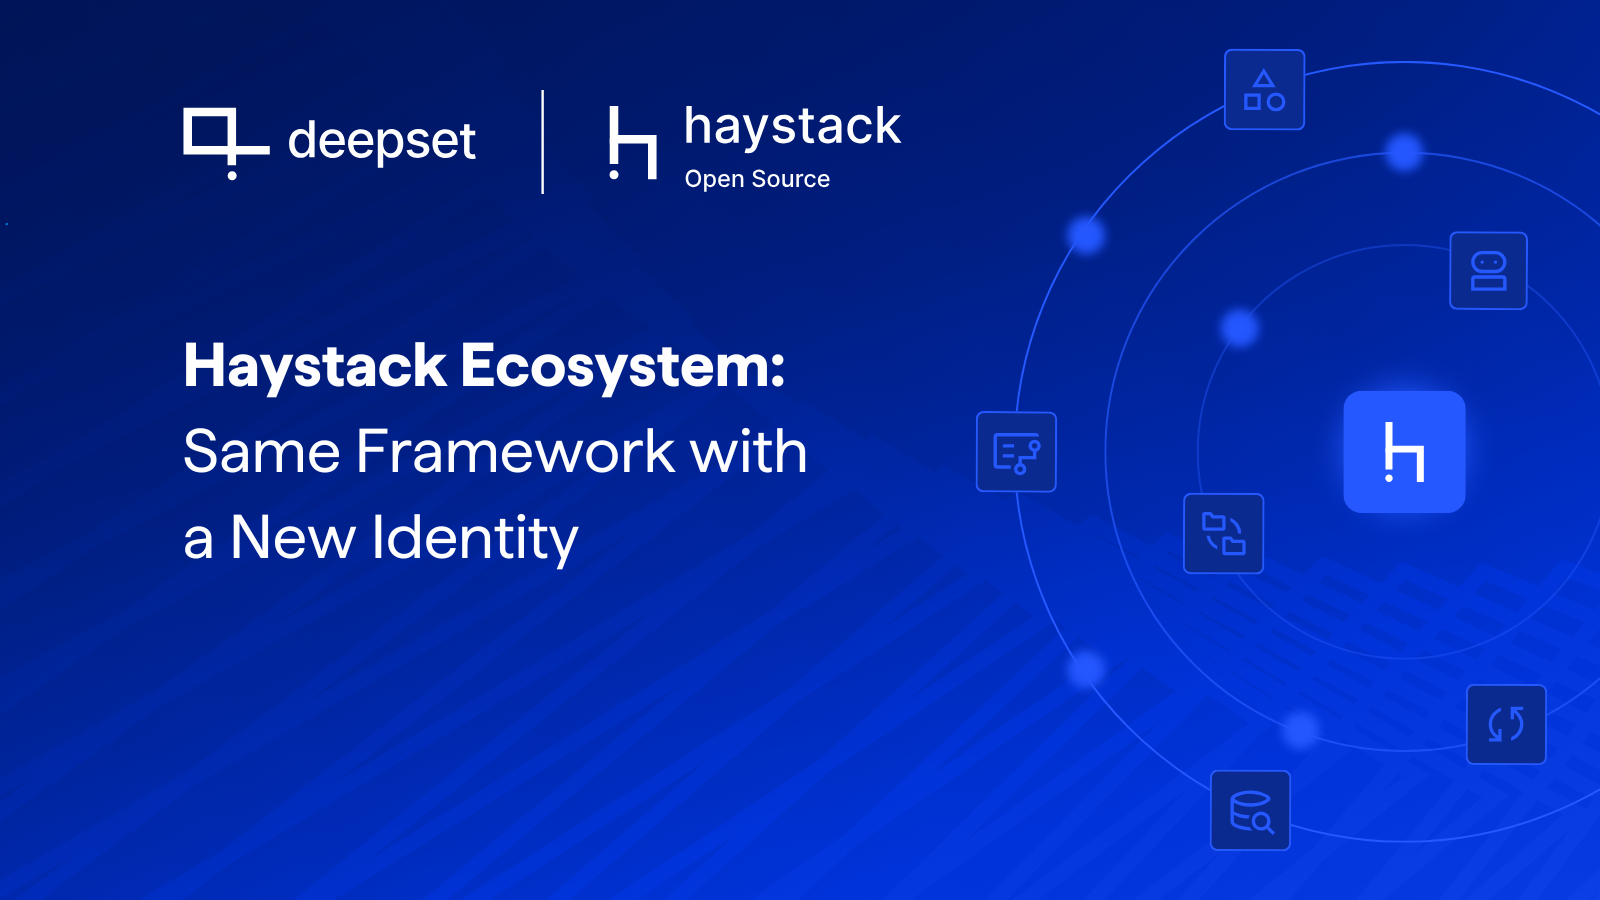
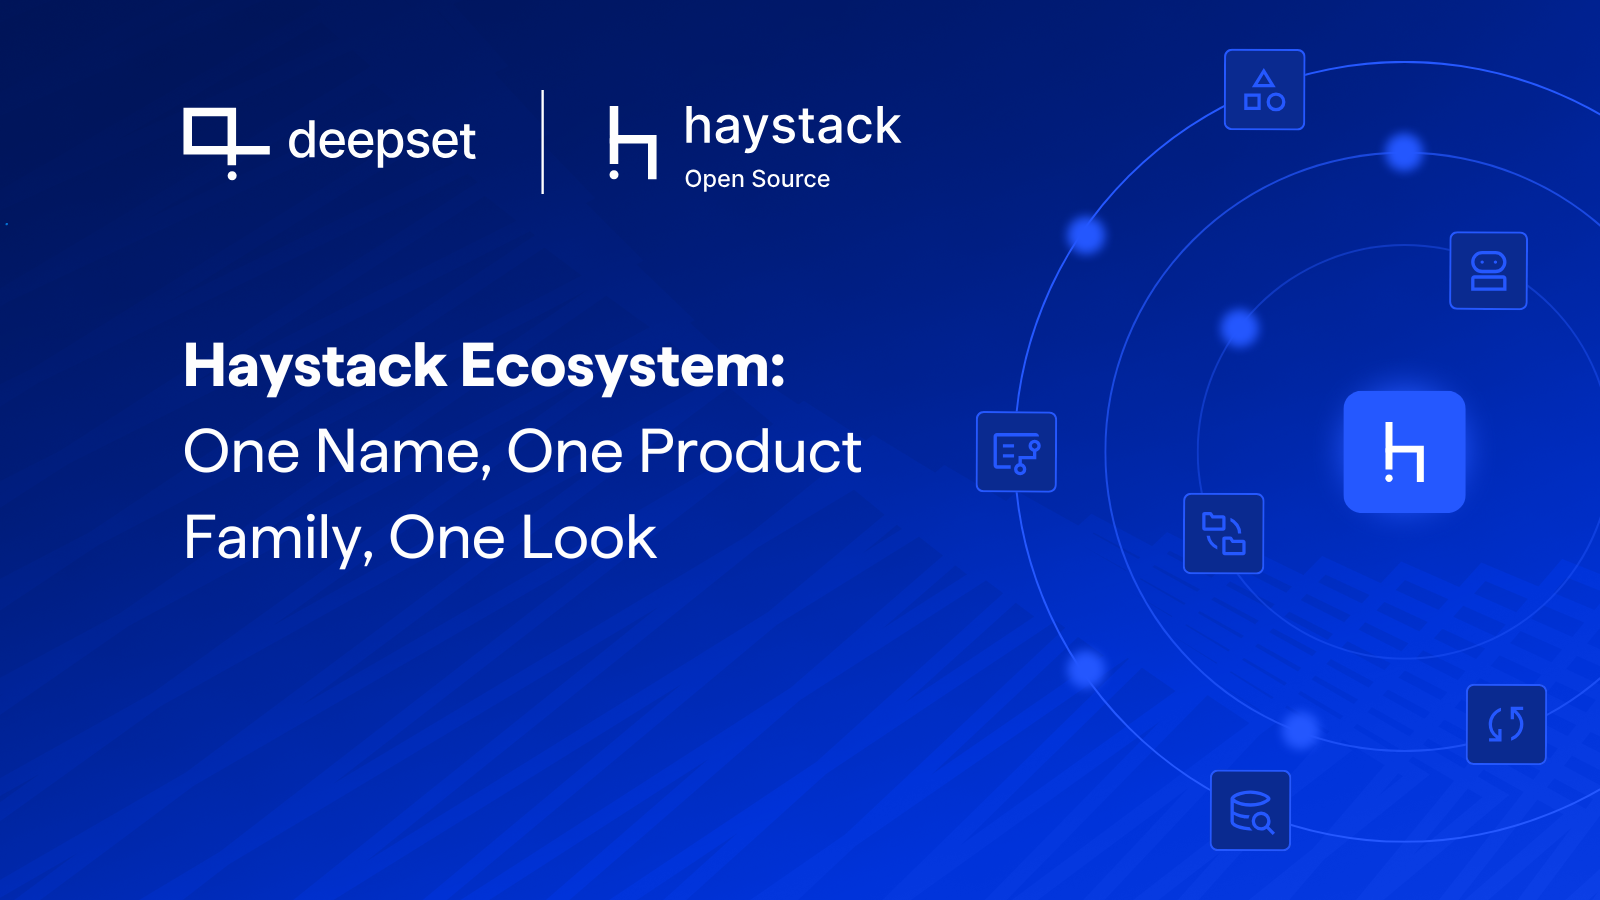
final copy updates

Changed region(s): [[0.0938, 0.4667, 0.5312, 0.5289], [0.0938, 0.56, 0.4062, 0.6222]]

diff --git a/themes/haystack/layouts/partials/announcement.html b/themes/haystack/layouts/partials/announcement.html
@@ -22,13 +22,13 @@
     </div>
 </a> -->
 
-<a href="blog/lufthansa-user-story/" class="announcement-bar blue">
+<a href="blog/announcing-haystack-ecosystem" class="announcement-bar blue">
   <div class="container">
      <!-- <span> 📚 Learn how to turn Haystack pipelines into production-ready <strong>REST APIs</strong> or <strong>MCP tools</strong></span> -->
       <!-- <span>🆕 <strong>Faster agents</strong> with parallel tool execution and <strong>guardrails & moderation</strong> for safer apps. See what's new in <strong>Haystack 2.15</strong> 🌟</span> -->
       <!-- <span>🆕 <strong>Haystack 2.18</strong>: Pipeline Error Recovery + Structured Output Generation</span> -->
       <!-- <span>📅 Join us in Berlin for <strong>AI Builders Unconference</strong> on Nov 25!</span> -->
-       <span> 📘 New User Story: <strong>Lufthansa Industry Solutions Uses Haystack to Power Enterprise RAG</strong></span>
+       <span> 📢 <strong>Unified Haystack Ecosystem: One Name, One Product Family, One Look</strong></span>
       <span>
           <svg
       xmlns="http://www.w3.org/2000/svg"

diff --git a/content/_index.md b/content/_index.md
@@ -108,7 +108,7 @@ comparison:
         url: "/overview/quick-start"
       
     - image: /images/haystack-enterprise-starter.png
-      title: Haystack Enterprise
+      title: Enterprise Support
       text: |
         Enterprise-support for the Haystack framework, with exclusive access to: 
         
@@ -122,14 +122,14 @@ comparison:
         url: "https://www.deepset.ai/products-and-services/haystack-enterprise"
     
     - image: /images/haystack-enterprise-platform.png
-      title: AI Development Platform
+      title: AI Orchestration Platform
       text: |
-        Sovereign AI Engineering toolset built on Haystack to accelerate and scale AI use cases with:
+        Sovereign AI toolset built on Haystack to accelerate and scale AI use cases with:
 
-        - Visual pipeline editor and developer tooling
-        - Multi-pipeline experimentation at scale
-        - Elastic Infrastructure (SaaS or On-Prem)
-        - Unified Access and Resource Management
+        - Visual, code-aligned pipeline design
+        - Data, retrieval, and testing workflows
+        - Secure access controls and auditability
+        - Scalable cloud or on-prem deployment
       button:
         text: Try Haystack Enterprise Platform for free
         color: "deepset-blue"

diff --git a/content/blog/announcing-haystack-ecosystem/index.md b/content/blog/announcing-haystack-ecosystem/index.md
@@ -1,7 +1,7 @@
 ---
 layout: blog-post
-title: 'Haystack Ecosystem: One Name for Building, Running, and Scaling AI'
-description: A Faster Way to Build and Scale Production-Grade AI Apps
+title: 'Haystack Ecosystem: One Name, One Product Family, One Look'
+description: One unified Haystack ecosystem, from open source to enterprise-scale AI systems.
 featured_image: thumbnail.png
 images: ["blog/announcing-haystack-ecosystem/thumbnail.png"]
 toc: True
